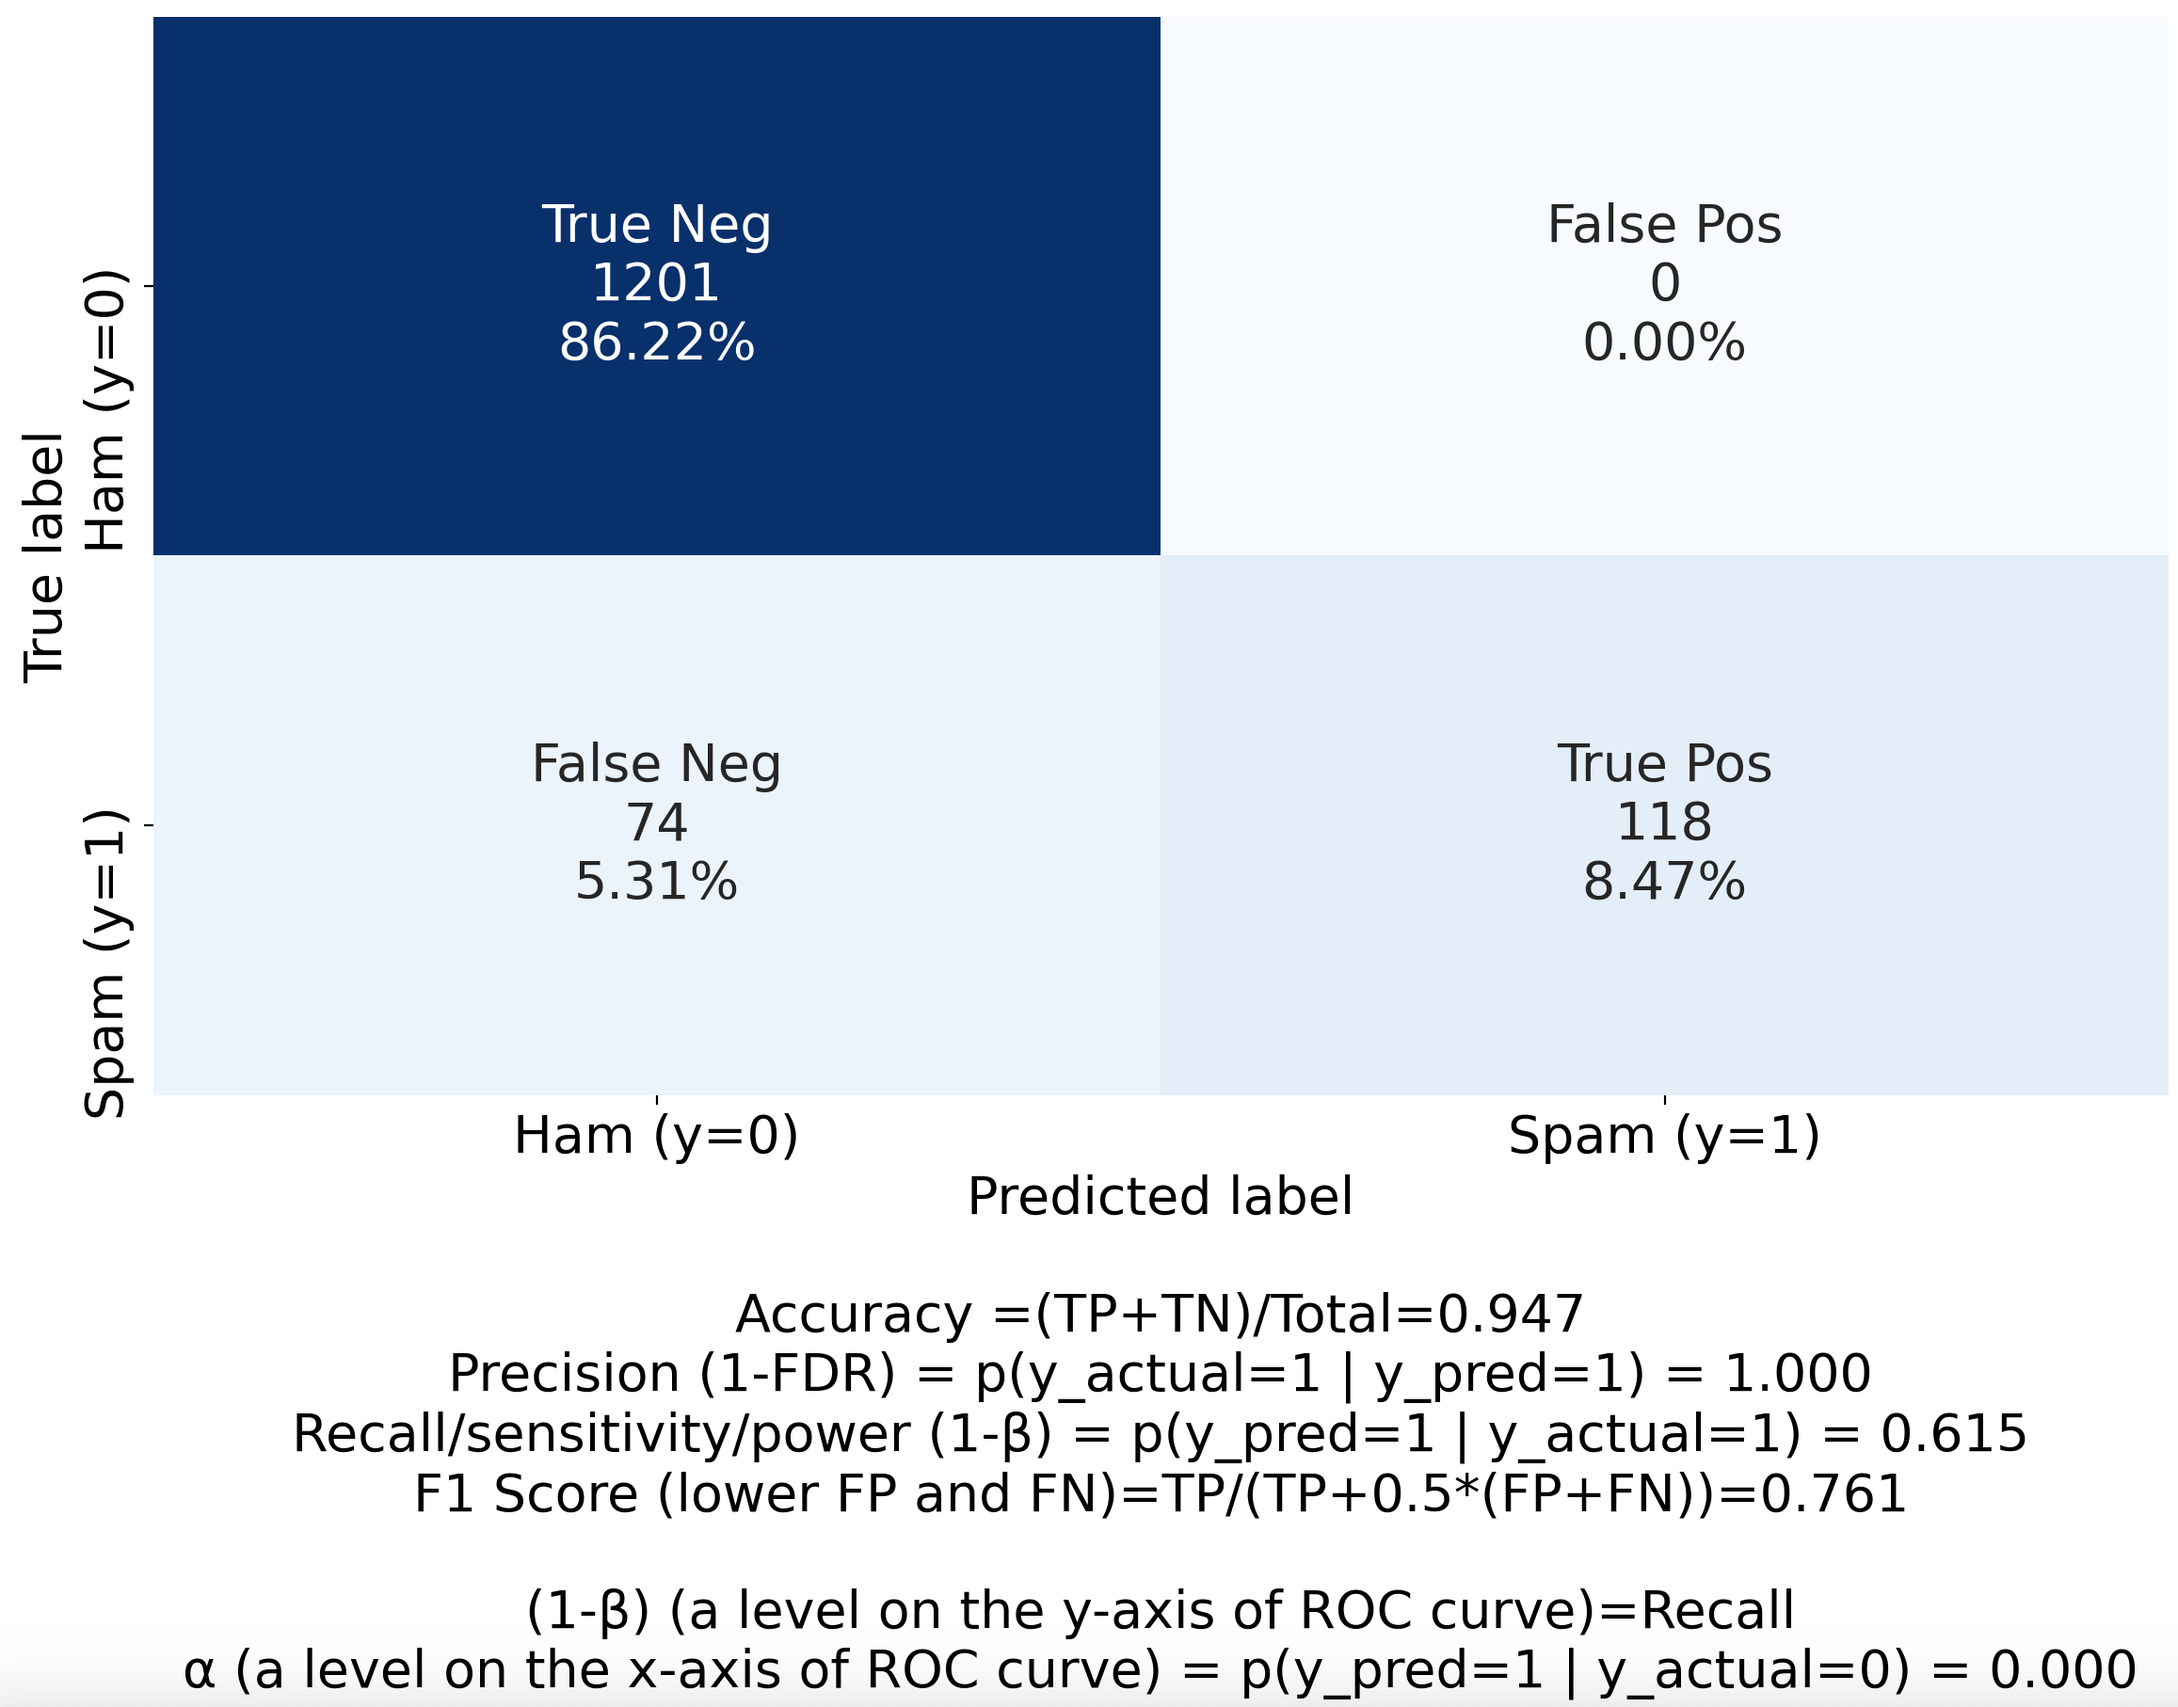
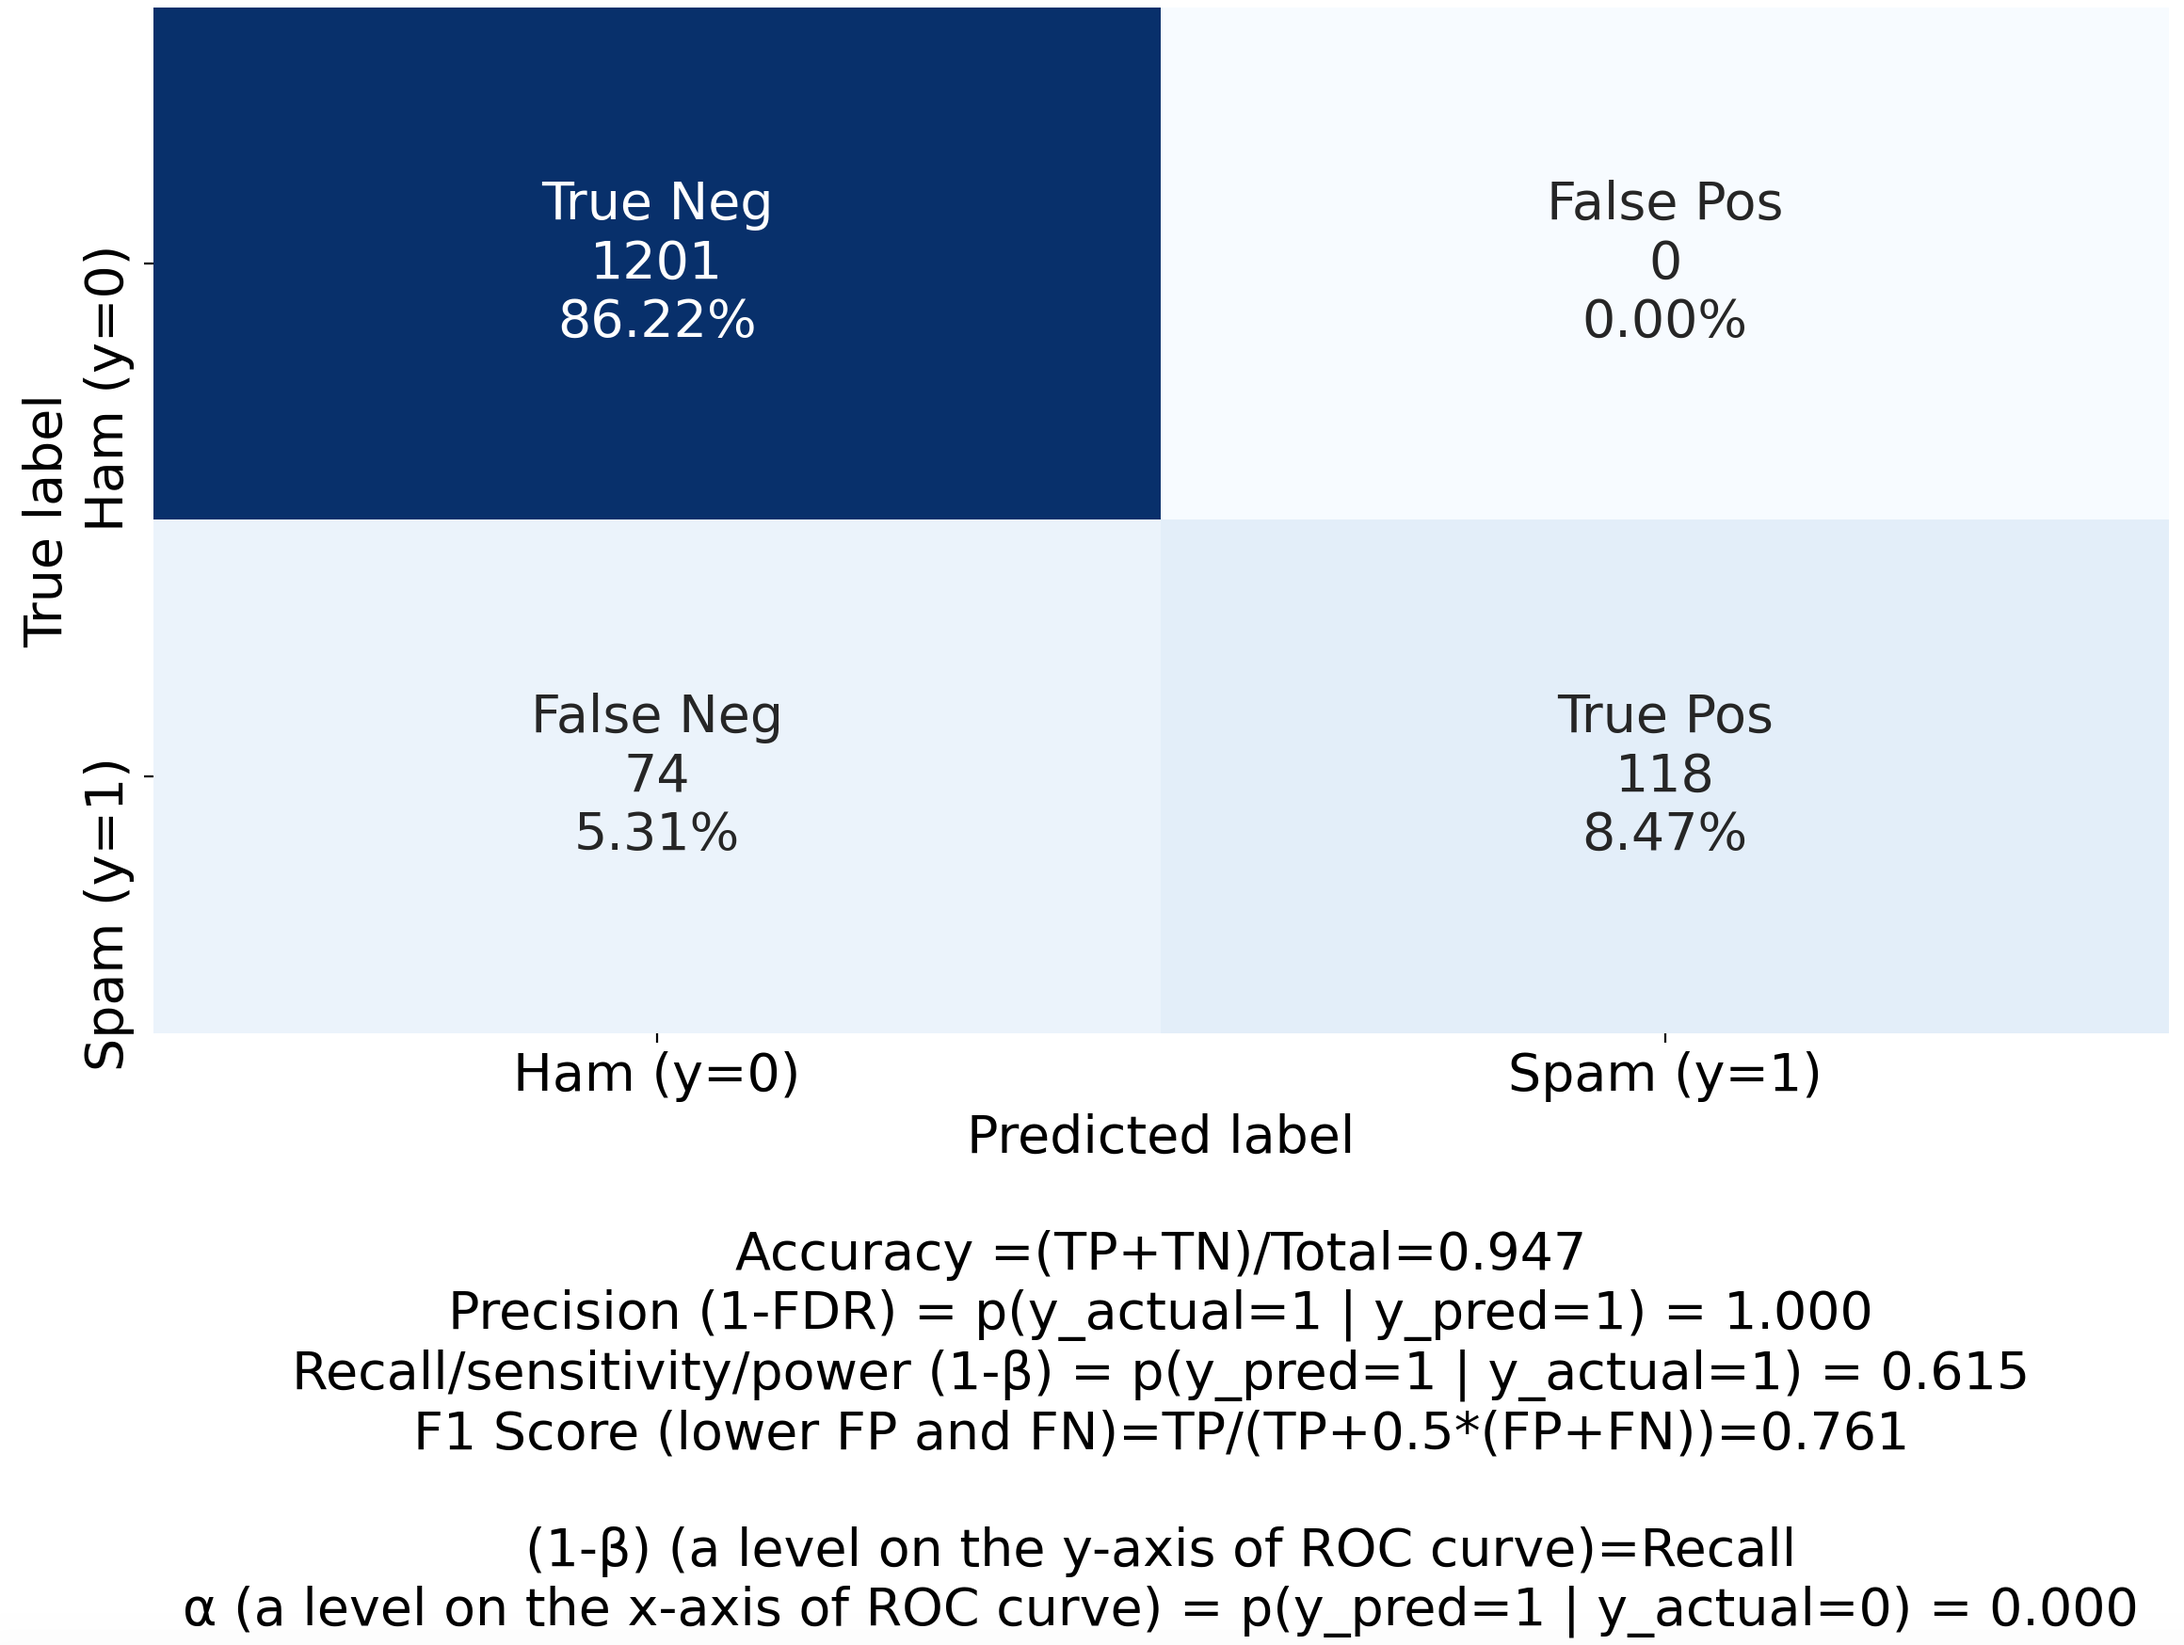
Update

diff --git a/Naive_Bayes/NB_classifiers.py b/Naive_Bayes/NB_classifiers.py
@@ -223,11 +223,11 @@ cf_matrix = confusion_matrix(y_test, y_pred)
 
 # https://medium.com/@dtuk81/confusion-matrix-visualization-fc31e3f30fea
 labels = ['True Neg','False Pos','False Neg','True Pos']
-categories = ['Ham', 'Spam']
+categories = ['Ham (y=0)', 'Spam (y=1)']
 make_confusion_matrix(cf_matrix,
                       group_names=labels,
                       categories=categories,
-                      figsize=(8,9),
+                      figsize=(12,10),
                       cbar=False)
 
 # https://scikit-learn.org/stable/auto_examples/model_selection/plot_roc.html
